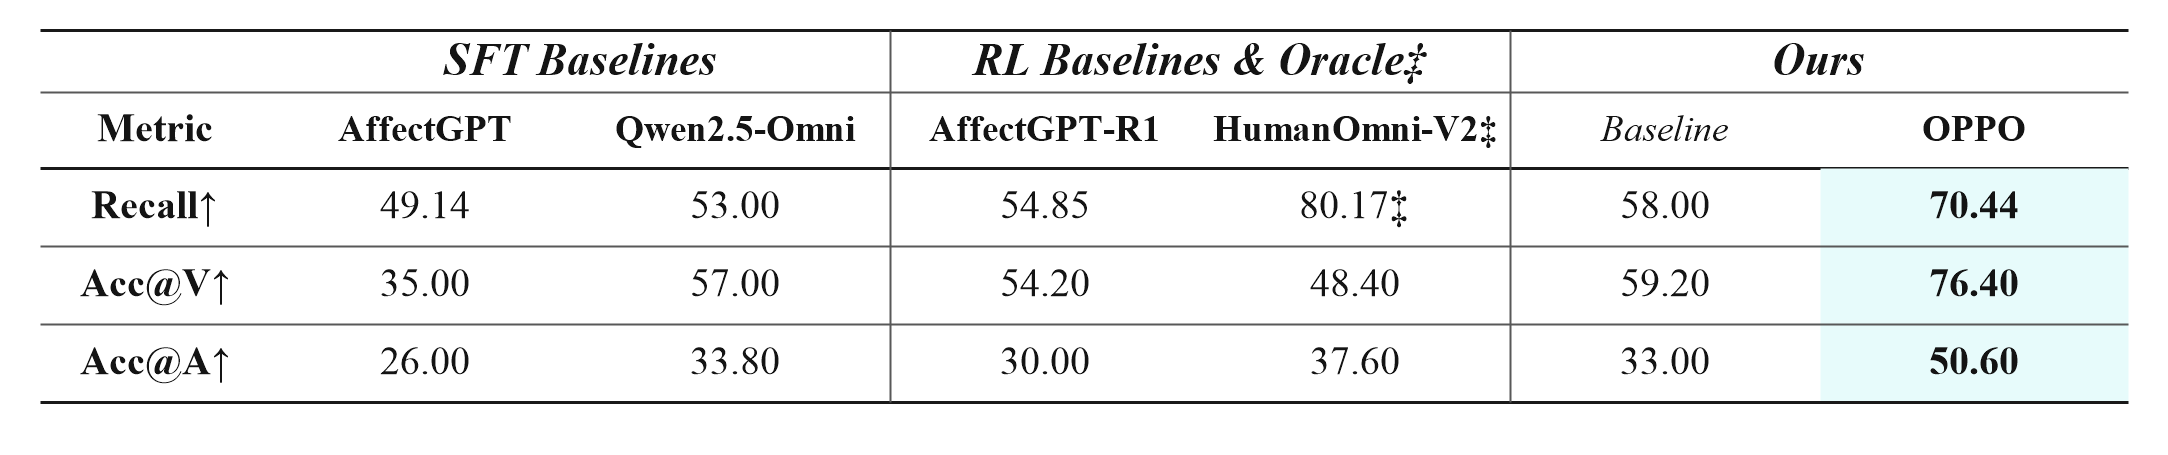
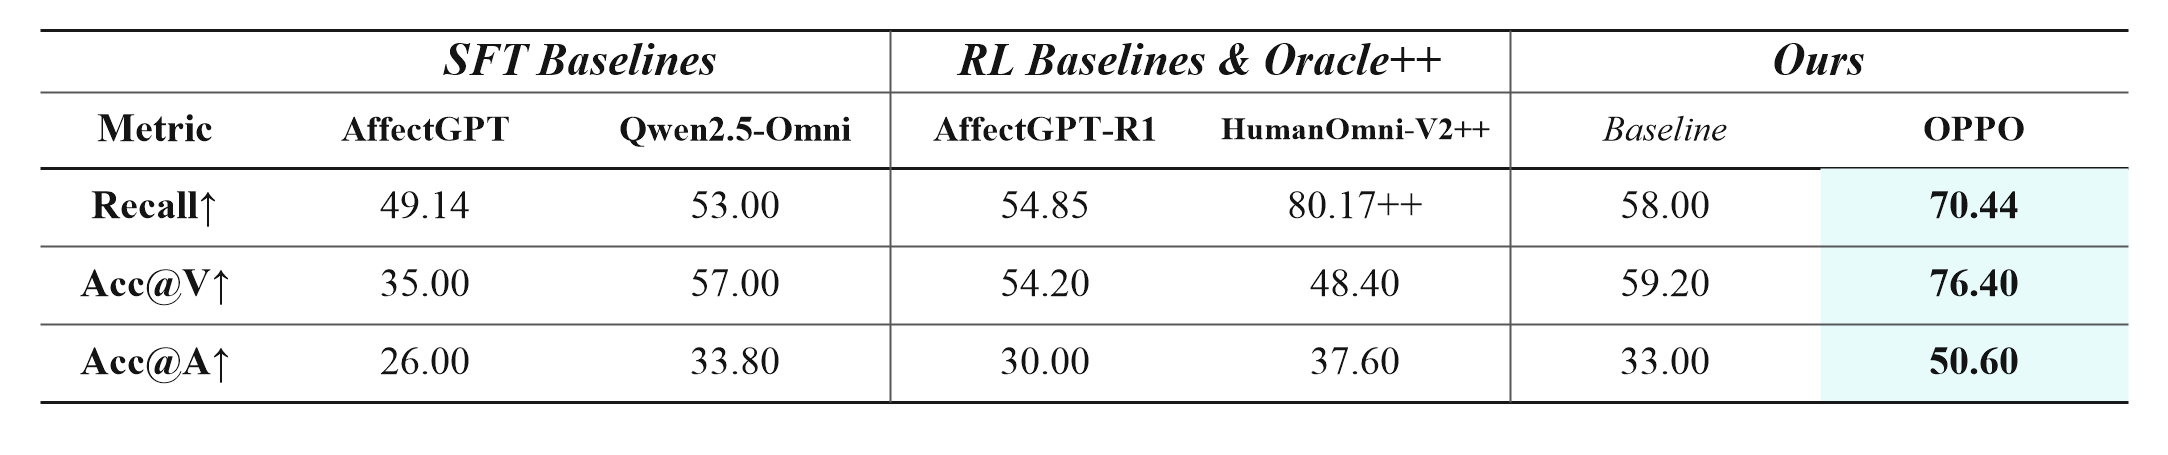
Add files via upload

diff --git a/index.html b/index.html
@@ -194,7 +194,7 @@
 
         <div class="content has-text-justified result-block">
           <h3 class="title is-4 has-text-centered">MEP-Bench Diagnostic Benchmark</h3>
-          <img src="table1_mep_bench.png?v=15" alt="Diagnostic results on MEP-Bench" class="section-image benchmark-image">
+          <img src="table1_mep_bench.png?v=16" alt="Diagnostic results on MEP-Bench" class="section-image benchmark-image">
           <p>
             MEP-Bench is derived from OV-MERD and evaluates whether reasoning uses human-annotated multimodal cues and
             whether visual or acoustic claims remain faithful under unimodal masking. It separates underutilization